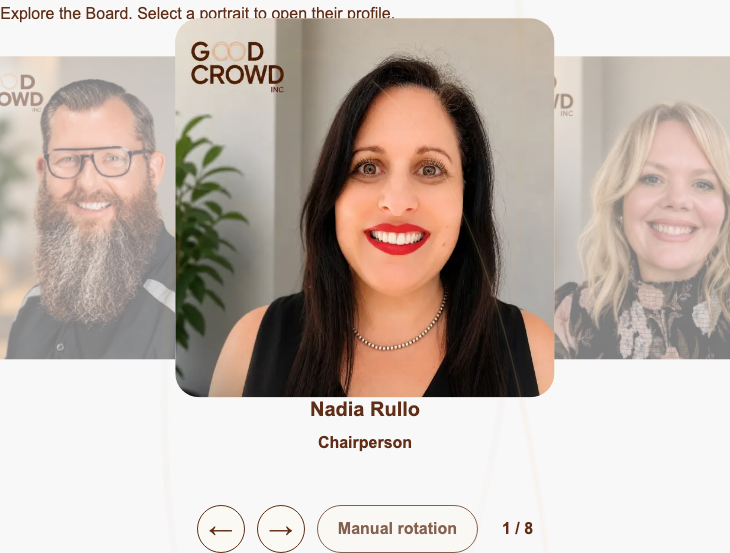
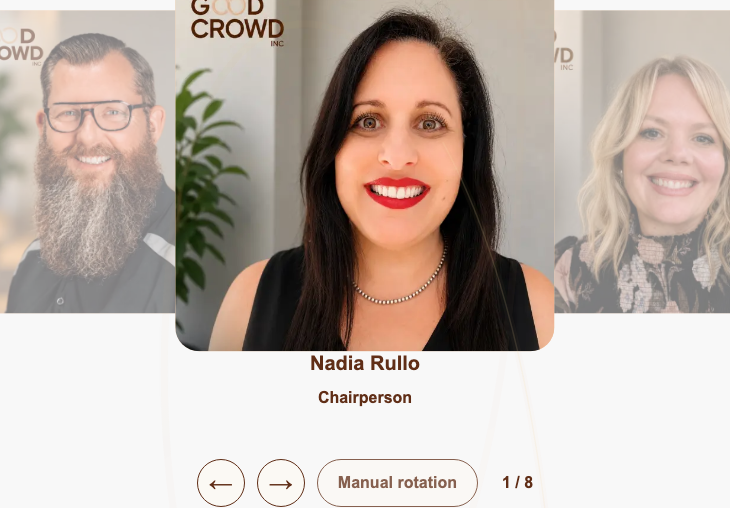
fix: remove extra board introduction and carousel hint

diff --git a/app/about/page.tsx b/app/about/page.tsx
@@ -29,7 +29,7 @@ export default function AboutPage() {
       <section className="relative overflow-hidden bg-crowd-brown py-20 text-crowd-cream md:py-28"><LuminousInfinity variant="partial" sparkles={false} className="absolute right-[-27rem] top-1/2 hidden h-[25rem] w-[58rem] -translate-y-1/2 rotate-[8deg] opacity-30 md:block"/><div className="container-crowd relative z-10 grid gap-8 lg:grid-cols-2"><div><p className="eyebrow text-crowd-sand">Mission</p><blockquote className="display mt-5 text-4xl md:text-6xl">{missionVision.mission}</blockquote></div><div className="self-end rounded-[1.5rem] border border-crowd-cream/15 bg-crowd-cream/10 p-6"><p className="eyebrow text-crowd-sand">Vision</p><p className="mt-4 text-2xl font-black leading-tight md:text-4xl">{missionVision.vision}</p></div></div></section>
       <SectionMediaBlock eyebrow="How the model works" title="Not inside boundaries. Across them." body="Good Crowd is designed around collaboration across neighbouring regions: communities, councils, tourism bodies, sponsors, local businesses, suppliers, volunteers and aligned organisations working toward shared regional outcomes." image={{src:"/images/place/canola-field-farm-dam-aerial.jpeg",alt:"Aerial canola landscape with a farm dam.",position:"object-[center_52%]"}} reverse />
       <section className="section-pad relative overflow-hidden bg-crowd-cream"><LuminousInfinity variant="streak" sparkles={false} className="absolute left-[-12rem] top-16 hidden h-28 w-[34rem] rotate-[-5deg] opacity-20 md:block"/><div className="container-crowd relative z-10"><div className="max-w-4xl"><p className="eyebrow text-crowd-brown">Values</p><h2 className="display mt-4 text-4xl md:text-6xl">Goodness, connection, glee and community guide the work.</h2></div><div className="mt-12 grid gap-5 md:grid-cols-2 md:auto-rows-fr">{values.map((value,index)=><article key={value.title} className={`h-full rounded-[1.5rem] border border-crowd-brown/10 p-6 shadow-crowd md:p-8 ${index===0?"bg-crowd-brown text-crowd-cream":index===2?"bg-crowd-sand":"bg-crowd-mist"}`}><p className={`text-sm font-black ${index===0?"text-crowd-sand":"text-crowd-brown"}`}>0{index+1}</p><h3 className="mt-10 text-3xl font-black tracking-tight">{value.title}</h3><p className={`mt-5 leading-7 ${index===0?"text-crowd-cream/75":"text-crowd-brown/75"}`}>{value.copy}</p></article>)}</div></div></section>
-      <section className="section-pad bg-crowd-mist"><div className="container-crowd"><div className="grid gap-8 lg:grid-cols-[0.78fr_1.22fr] lg:items-end"><div><p className="eyebrow text-crowd-brown">Our Board</p><h2 className="display mt-4 text-4xl md:text-6xl">Community leadership with regional purpose.</h2></div><p className="max-w-2xl text-lg leading-8 text-crowd-brown/75 lg:justify-self-end">Good Crowd Inc. is governed by a volunteer Board bringing together community, organisational and regional perspectives. Tamara de Lange and Sarah Moore are the organisation&apos;s founders and continue to serve as Board Members.</p></div><BoardCarousel members={boardMembers} /></div></section>
+      <section className="section-pad bg-crowd-mist"><div className="container-crowd"><div className="grid gap-8 lg:grid-cols-[0.78fr_1.22fr] lg:items-end"><div><p className="eyebrow text-crowd-brown">Our Board</p><h2 className="display mt-4 text-4xl md:text-6xl">Community leadership with regional purpose.</h2></div><p className="max-w-2xl text-lg leading-8 text-crowd-brown/75 lg:justify-self-end">Good Crowd Inc. is governed by a volunteer Board bringing together community, organisational and regional perspectives.</p></div><BoardCarousel members={boardMembers} /></div></section>
       <PageCta eyebrow="Work with us" title="Good things happen when good people work together." body="Whether you represent a region, organisation, business or community, start a conversation about what we could create together." href="/work-with-us" label="Explore partnership paths" />
     </div>
   );

diff --git a/components/sections/board-carousel.tsx b/components/sections/board-carousel.tsx
@@ -87,12 +87,10 @@ export function BoardCarousel({ members }: { members: BoardMember[] }) {
         if (!event.currentTarget.contains(event.relatedTarget)) setFocused(false);
       }}
     >
-      <p className={styles.hint} id={`${id}-hint`}>Explore the Board. Select a portrait to open their profile.</p>
       <ul
         ref={track}
         id={`${id}-portraits`}
         className={styles.track}
-        aria-describedby={`${id}-hint`}
         onTouchStart={(event) => { touchStart.current = event.touches[0].clientX; }}
         onTouchEnd={(event) => {
           if (touchStart.current === null) return;

diff --git a/components/sections/board-carousel.module.css b/components/sections/board-carousel.module.css
@@ -1,5 +1,4 @@
 .carousel { margin-top: 3rem; }
-.hint { margin-bottom: 1.25rem; line-height: 1.6; }
 .track { position: relative; height: clamp(15rem, 42vw, 28rem); margin: 0; padding: 0; list-style: none; isolation: isolate; touch-action: pan-y pinch-zoom; }
 .card { position: absolute; left: 50%; top: 50%; width: min(52%, 28rem); min-width: 0; transform: translate(-50%, -50%); transition: transform 550ms ease, opacity 550ms ease; }
 .card[data-position="center"] { z-index: 3; opacity: 1; }
